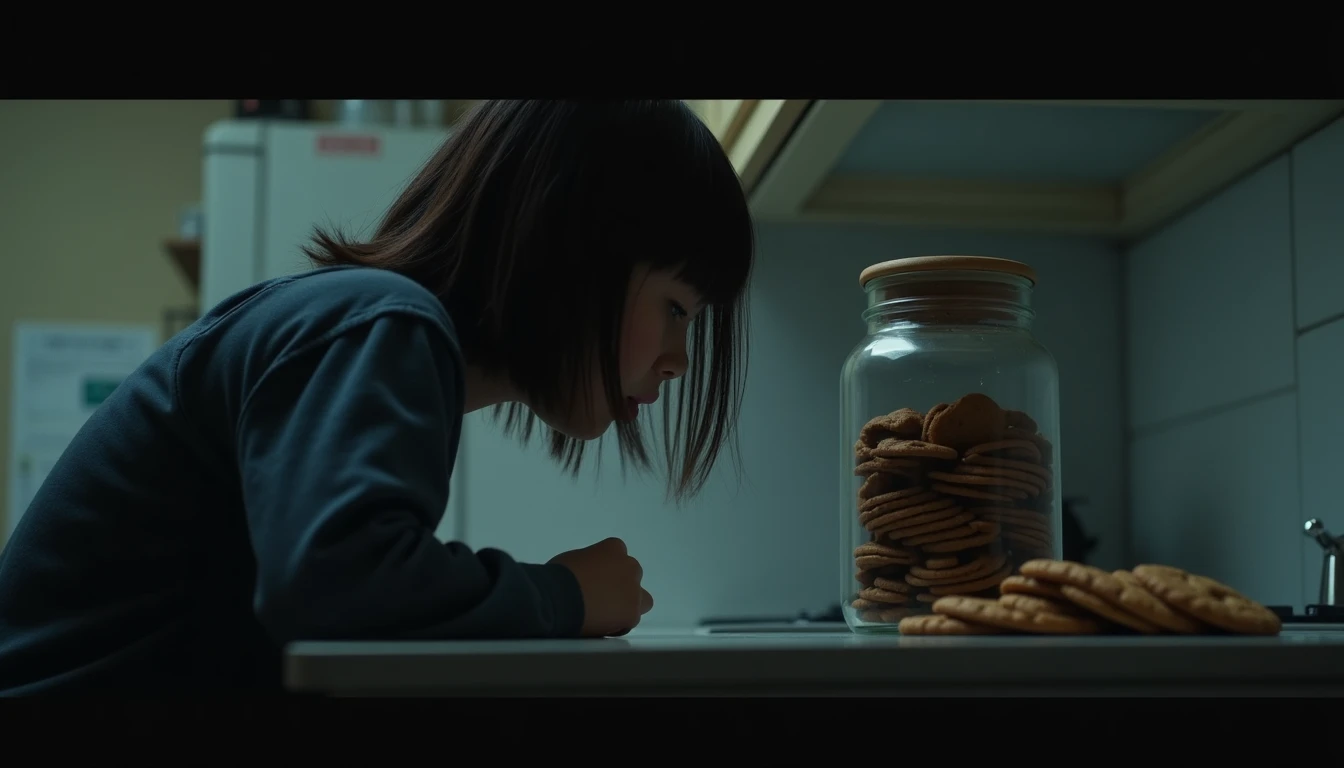
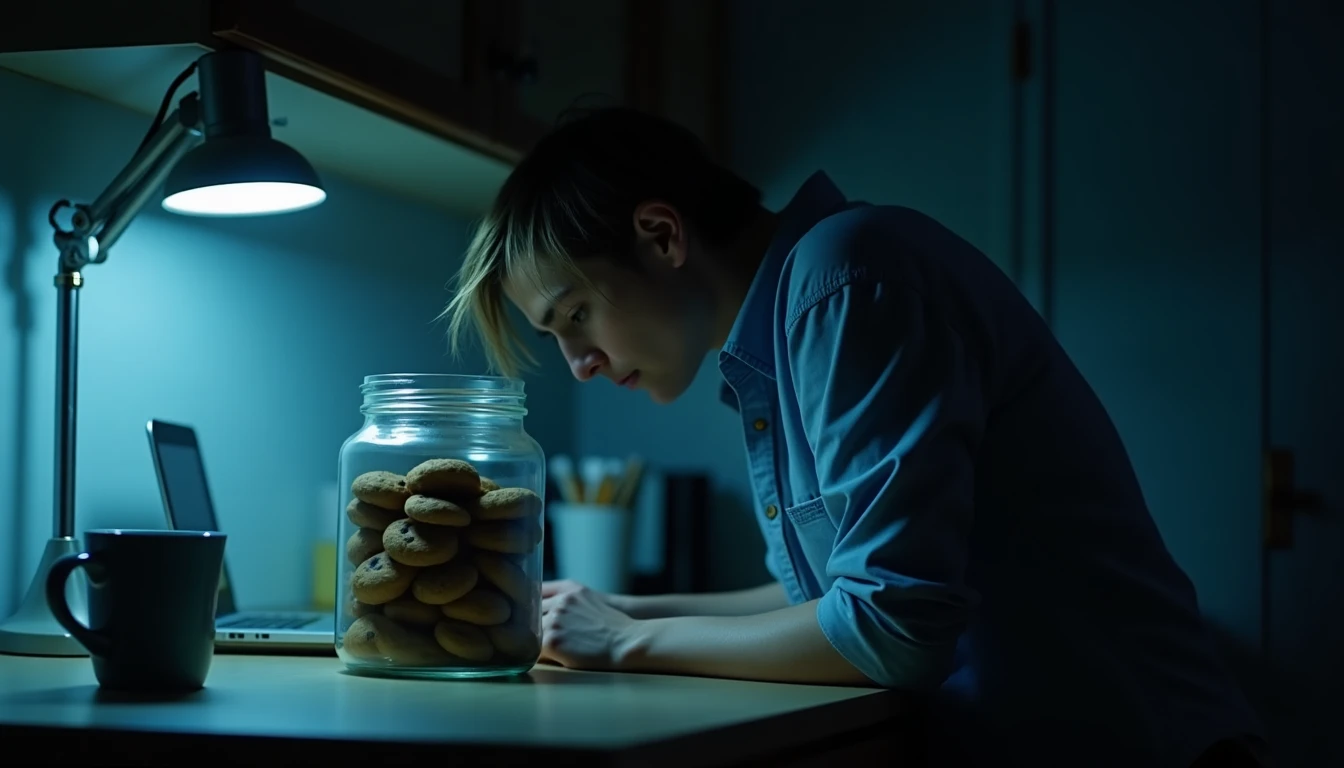
chore(images): screw-it-moment — adult-only fix
CRITICAL: previous render contained a minor. Regenerated with the
new system-prompt rule requiring adult figures only, plus adult-
context cues (rumpled work shirt, late-night lamp). Cookie-jar
metaphor preserved.

diff --git a/src/data/articles/screw-it-moment-all-or-nothing.ts b/src/data/articles/screw-it-moment-all-or-nothing.ts
@@ -118,5 +118,5 @@ Nothing is lost. You are still here. The next 10 minutes are yours.
 *The Craving Toolkit includes a full chapter on the collapse spiral — including pre-scripted responses for the "screw it" moment, a shame-interruption protocol, and practical strategies for preventing a slip from becoming a relapse.*`,
     disclaimer: "This article is educational and based on lived experience and modern addiction science. It is not medical advice and is not a substitute for professional treatment, therapy, or emergency support."
 ,
-    coverImage: { src: "/articles/screw-it-moment-all-or-nothing.webp", alt: "Side profile, worn clothes, hair forward, person leaning toward tall cookie jar on kitchen counter." },
+    coverImage: { src: "/articles/screw-it-moment-all-or-nothing.webp", alt: "Person in rumpled shirt, head turned away, leaning toward tall glass jar under blue-gray lamp" },
 };
